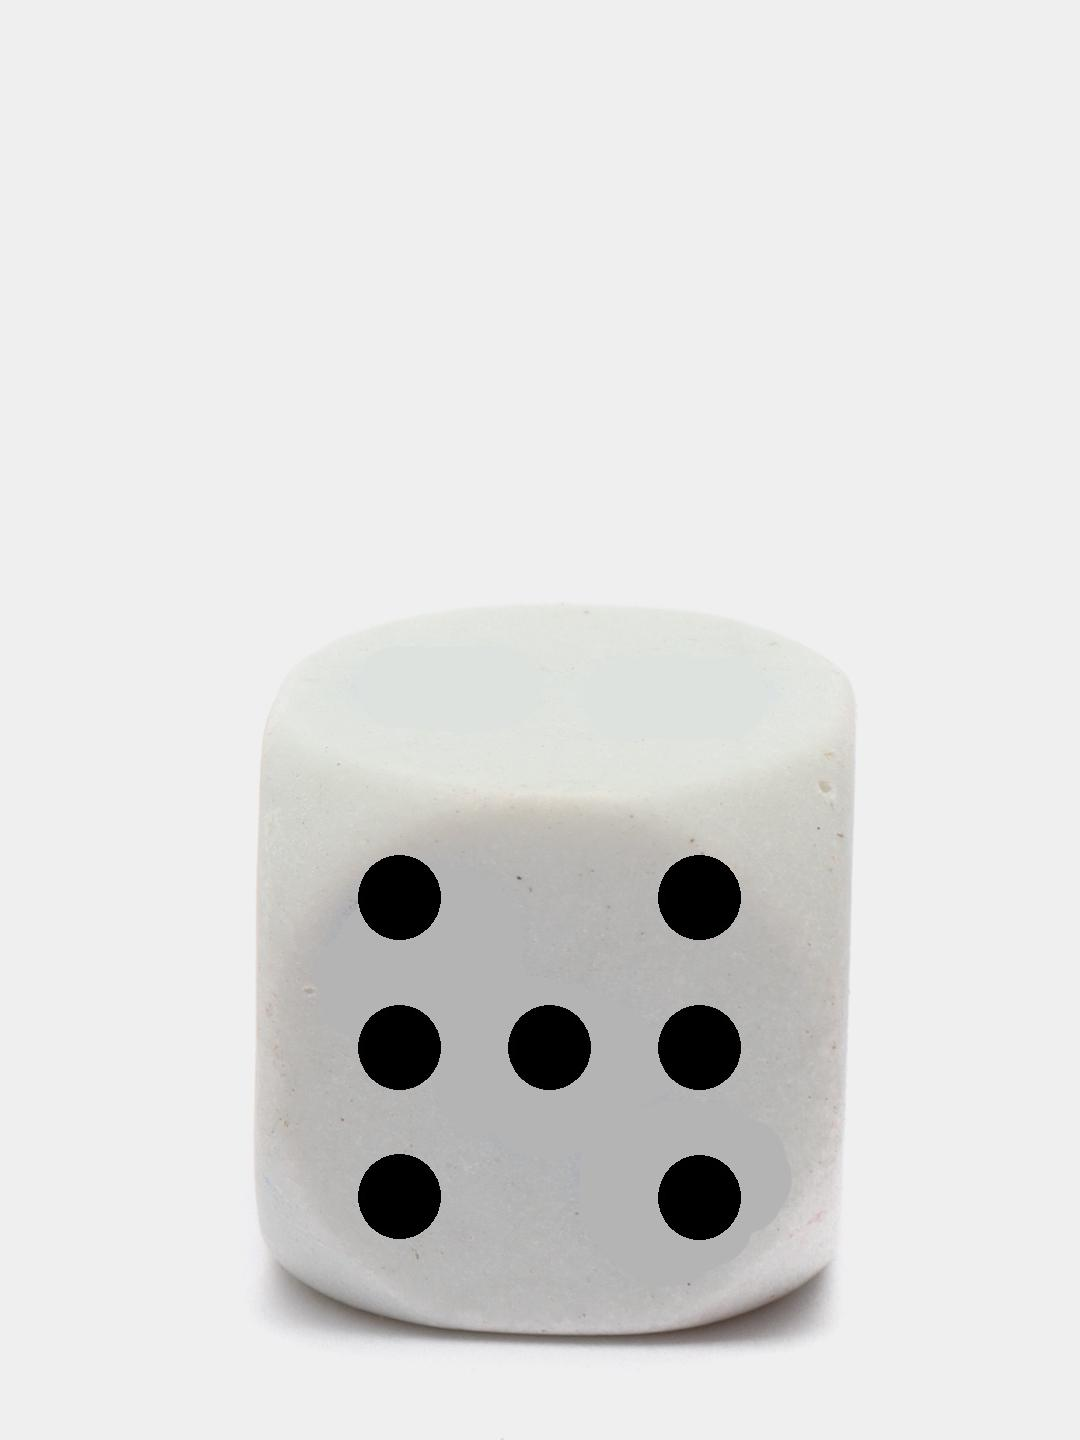
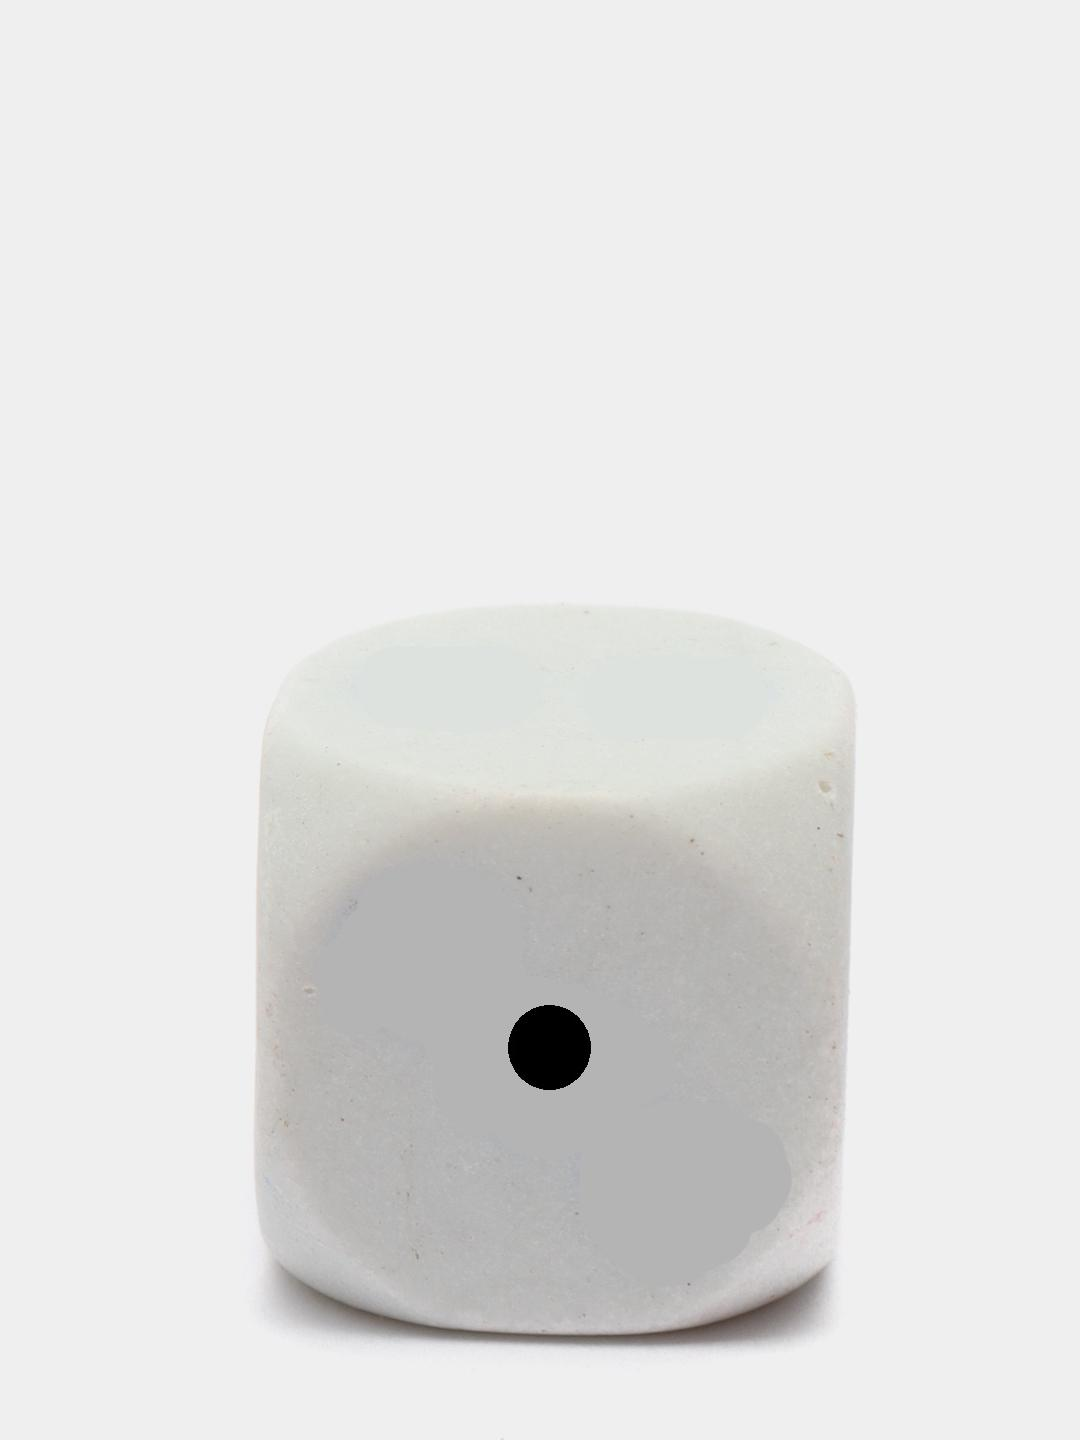
Fix unsynced dices bug

diff --git a/roll_dice_system.py b/roll_dice_system.py
@@ -12,21 +12,25 @@ point.load()
 
 def gen_dice(num, image_obj, savename):
     if num == 1:
+        image_obj = Image.open("DICE_EMPTY.jpg")
         image_obj.paste(point, (500, 1000), mask=point)
         image_obj.save(savename)
         return image_obj
     if num == 2:
+        Image.open("DICE_EMPTY.jpg")
         image_obj.paste(point, (650, 1150), mask=point)
         image_obj.paste(point, (350, 850), mask=point)
         image_obj.save(savename)
         return image_obj
     if num == 3:
+        Image.open("DICE_EMPTY.jpg")
         image_obj.paste(point, (650, 1150), mask=point)
         image_obj.paste(point, (350, 850), mask=point)
         image_obj.paste(point, (500, 1000), mask=point)
         image_obj.save(savename)
         return image_obj
     if num == 4:
+        Image.open("DICE_EMPTY.jpg")
         image_obj.paste(point, (650, 1150), mask=point)
         image_obj.paste(point, (350, 850), mask=point)
         image_obj.paste(point, (350, 1149), mask=point)
@@ -34,6 +38,7 @@ def gen_dice(num, image_obj, savename):
         image_obj.save(savename)
         return image_obj
     if num == 5:
+        Image.open("DICE_EMPTY.jpg")
         image_obj.paste(point, (650, 1150), mask=point)
         image_obj.paste(point, (350, 850), mask=point)
         image_obj.paste(point, (350, 1149), mask=point)
@@ -42,6 +47,7 @@ def gen_dice(num, image_obj, savename):
         image_obj.save(savename)
         return image_obj
     if num == 6:
+        Image.open("DICE_EMPTY.jpg")
         image_obj.paste(point, (650, 1150), mask=point)
         image_obj.paste(point, (350, 850), mask=point)
         image_obj.paste(point, (350, 1000), mask=point)
@@ -72,5 +78,5 @@ def call(number1, number2, savename1, savename2):
     return result
 
 
-call(0,0, "dice1.jpg", "dice2.jpg")
+
 
